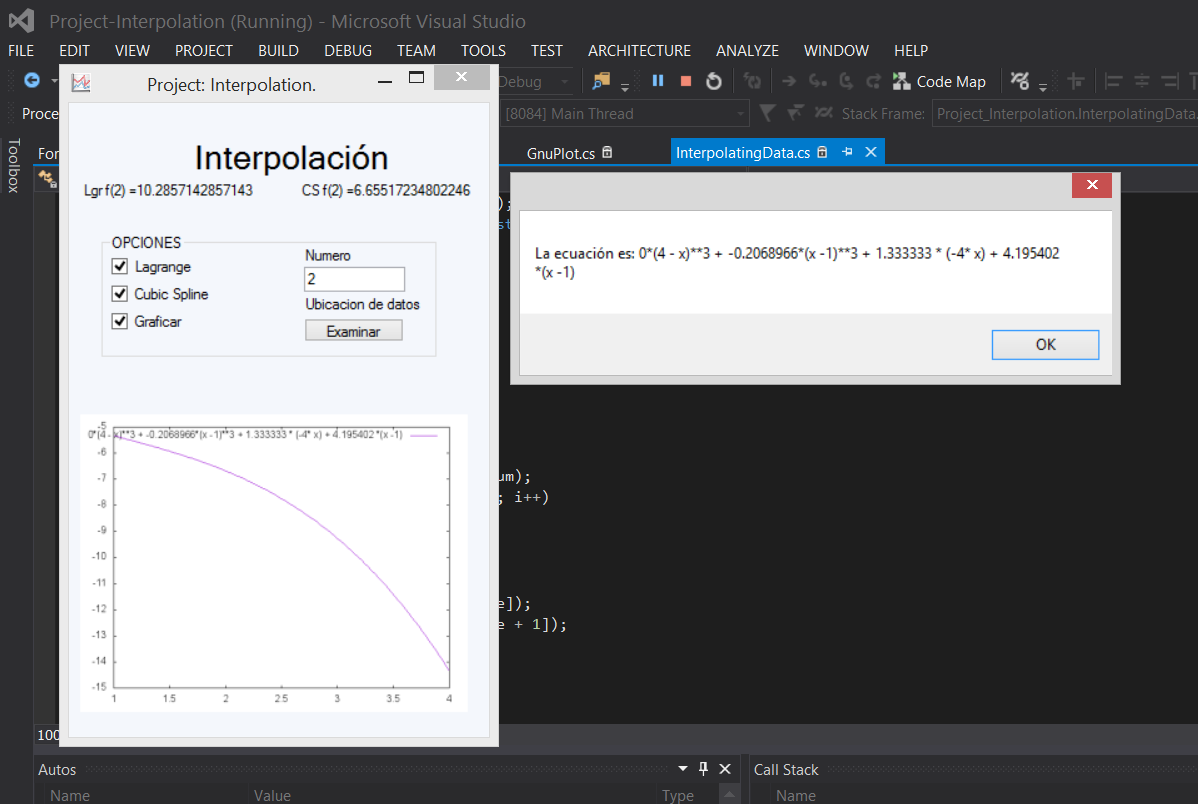
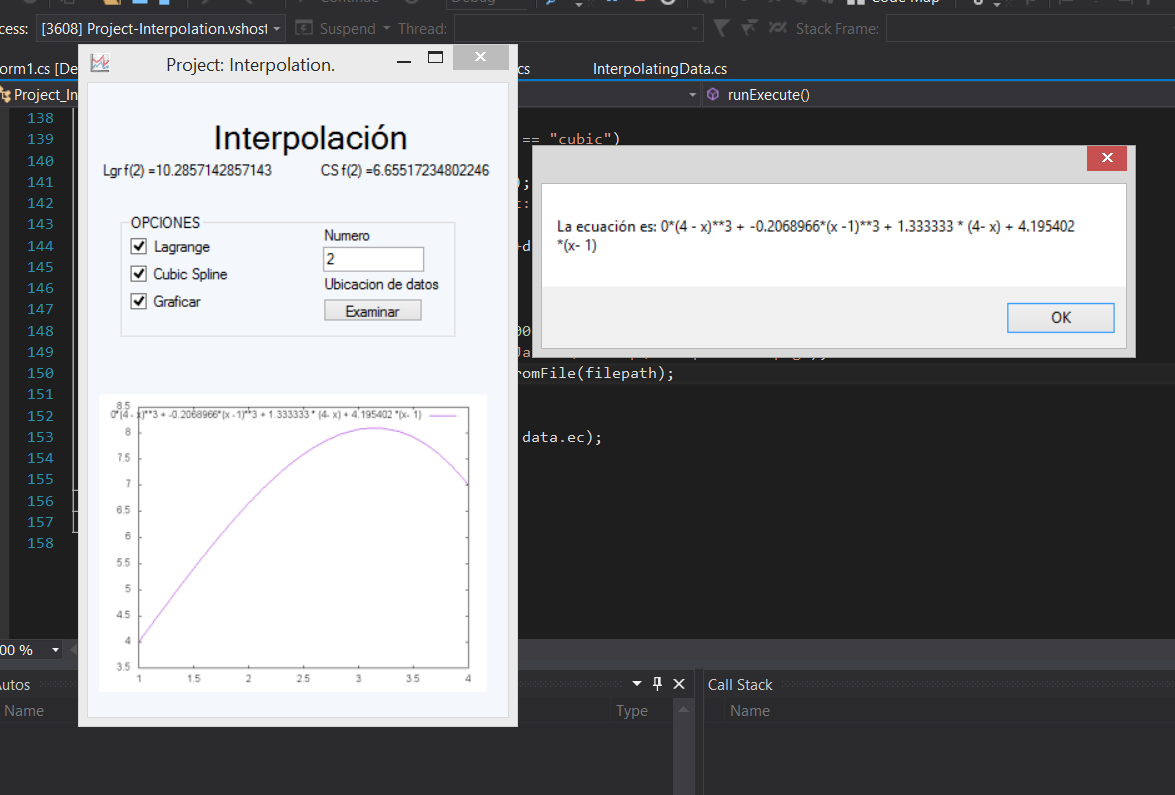
Se actualiza ejemplo con grafica corregida

diff --git a/Server/CS_Spline.cs b/Server/CS_Spline.cs
@@ -123,10 +123,10 @@ namespace CubicSplineInterpolation
                     if ((t >= x[i - 1]) && (t <= x[i]))
                     {
 
-                        formula = ((float)(d2x[i - 1] / (6 * (x[i] - x[i - 1]))) + "*(" + x[i] + " - x)**3 + " +
-                                            (float)(d2x[i] / (6 * (x[i] - x[i - 1]))) + "*(x " + (float)((-1) * x[i - 1]) + ")**3 + " +
-                                            (float)(fx[i - 1] / (x[i] - x[i - 1]) - (float)((d2x[i - 1] * (x[i] - x[i - 1])) / 6)) + " * (" + (x[i] * (-1)) + "* x) + " +
-                                            (float)((fx[i] / (x[i] - x[i - 1])) - (float)((d2x[i] * (x[i] - x[i - 1])) / 6)) + " *(x " + ((-1) * x[i - 1]) + ")");
+                        formula = ((float)(d2x[i-1]/(6*(x[i]-x[i-1]))) + "*(" + x[i] +" - x)**3 + " + 
+							            (float)(d2x[i]/(6*(x[i]-x[i-1])))+ "*(x -" + (x[i-1]) + ")**3 + " + 
+							            (float)(fx[i-1]/(x[i]-x[i-1]) - ((d2x[i-1]*(x[i]-x[i-1])) / 6)) + " * (" +(x[i]) + "- x) + " + 
+							            (float)((fx[i]/(x[i]-x[i-1])) - ((d2x[i]*(x[i]-x[i-1]))/6)) + " *(x- " + (x[i-1]) + ")");
             
                         result = (float)(((d2x[i - 1] / (6 * (x[i] - x[i - 1]))) * Math.Pow((x[i] - t), 3)) +
                                            ((d2x[i] / (6 * (x[i] - x[i - 1]))) * Math.Pow((t - x[i - 1]), 3)) +
